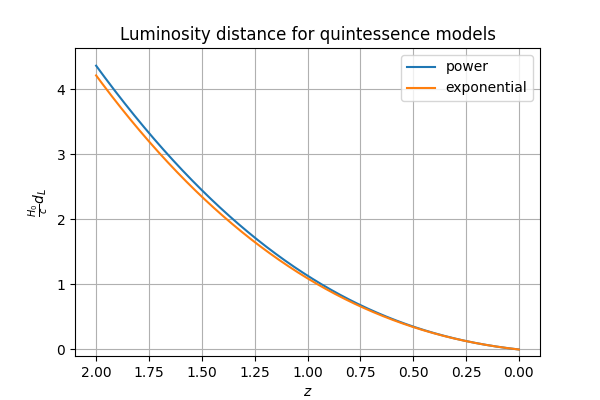
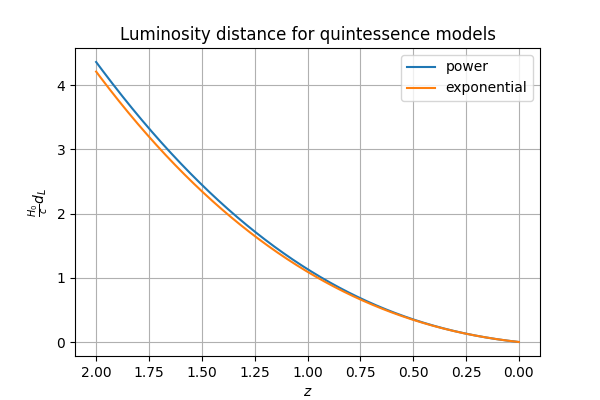
removed xlim ylim

Changed region(s): [[0.09, 0.15, 0.9, 0.9], [0.09, 0.84, 0.12, 0.9], [0.09, 0.51, 0.12, 0.57]]

diff --git a/Projects/Project 1/scripts/problem12.py b/Projects/Project 1/scripts/problem12.py
@@ -123,8 +123,6 @@ def plot_luminosity_distances(
     plt.ylabel(r"$\frac{H_0}{c}d_L$")
     plt.title("Luminosity distance for quintessence models")
     plt.legend()
-    plt.xlim(-0.1, z_max * 1.05)  # limit to z=z_max
-    plt.ylim(-0.1, d[-1] * 1.1)
     plt.grid()
     plt.gca().invert_xaxis()
     plt.savefig(filename)
